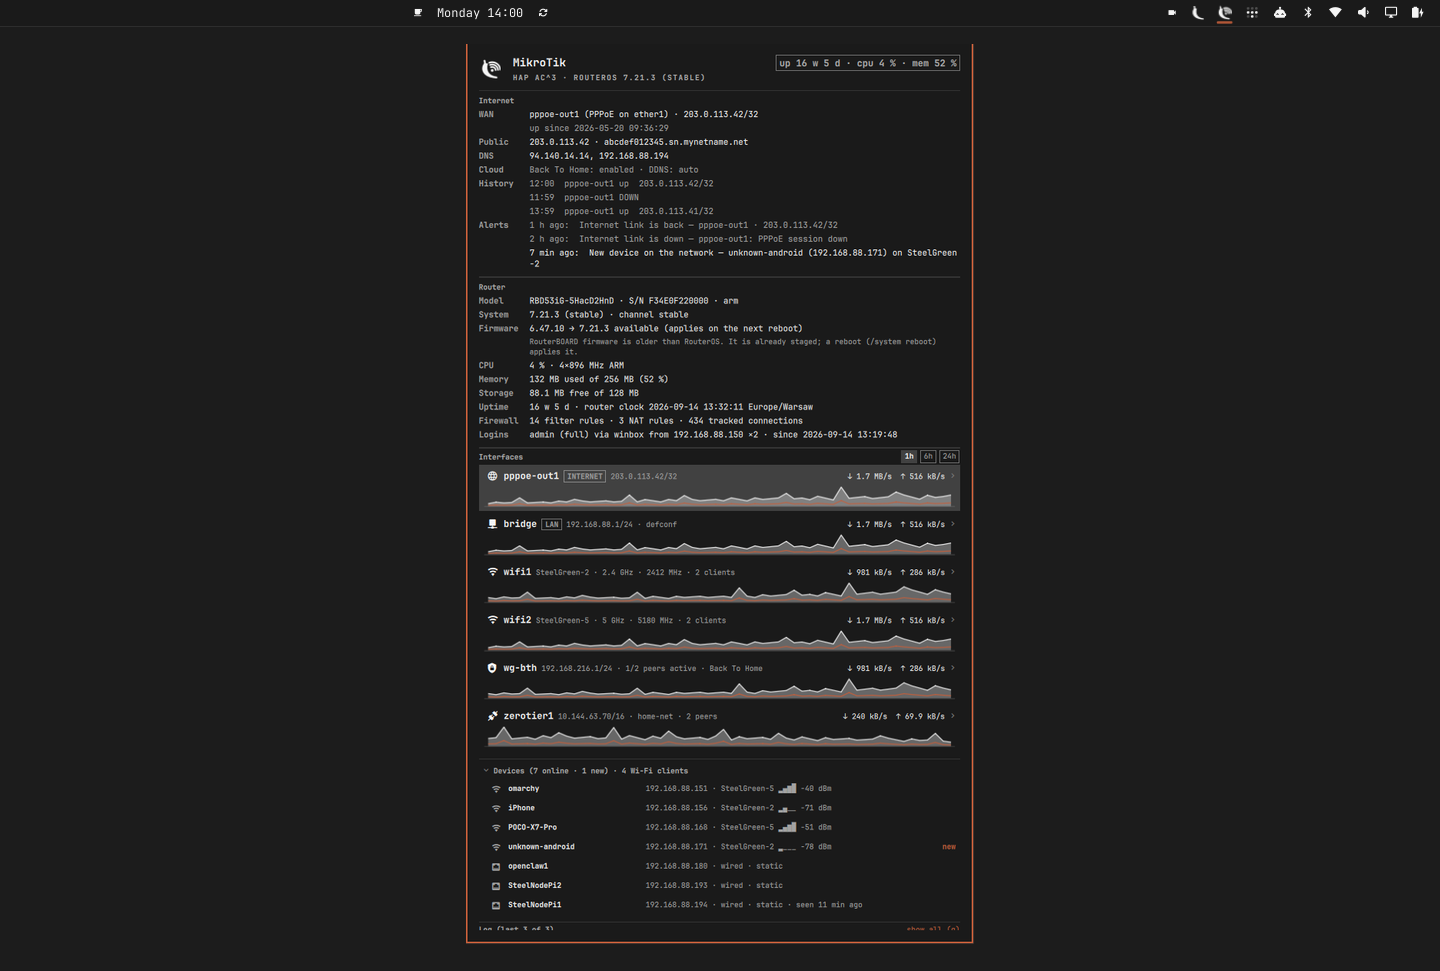
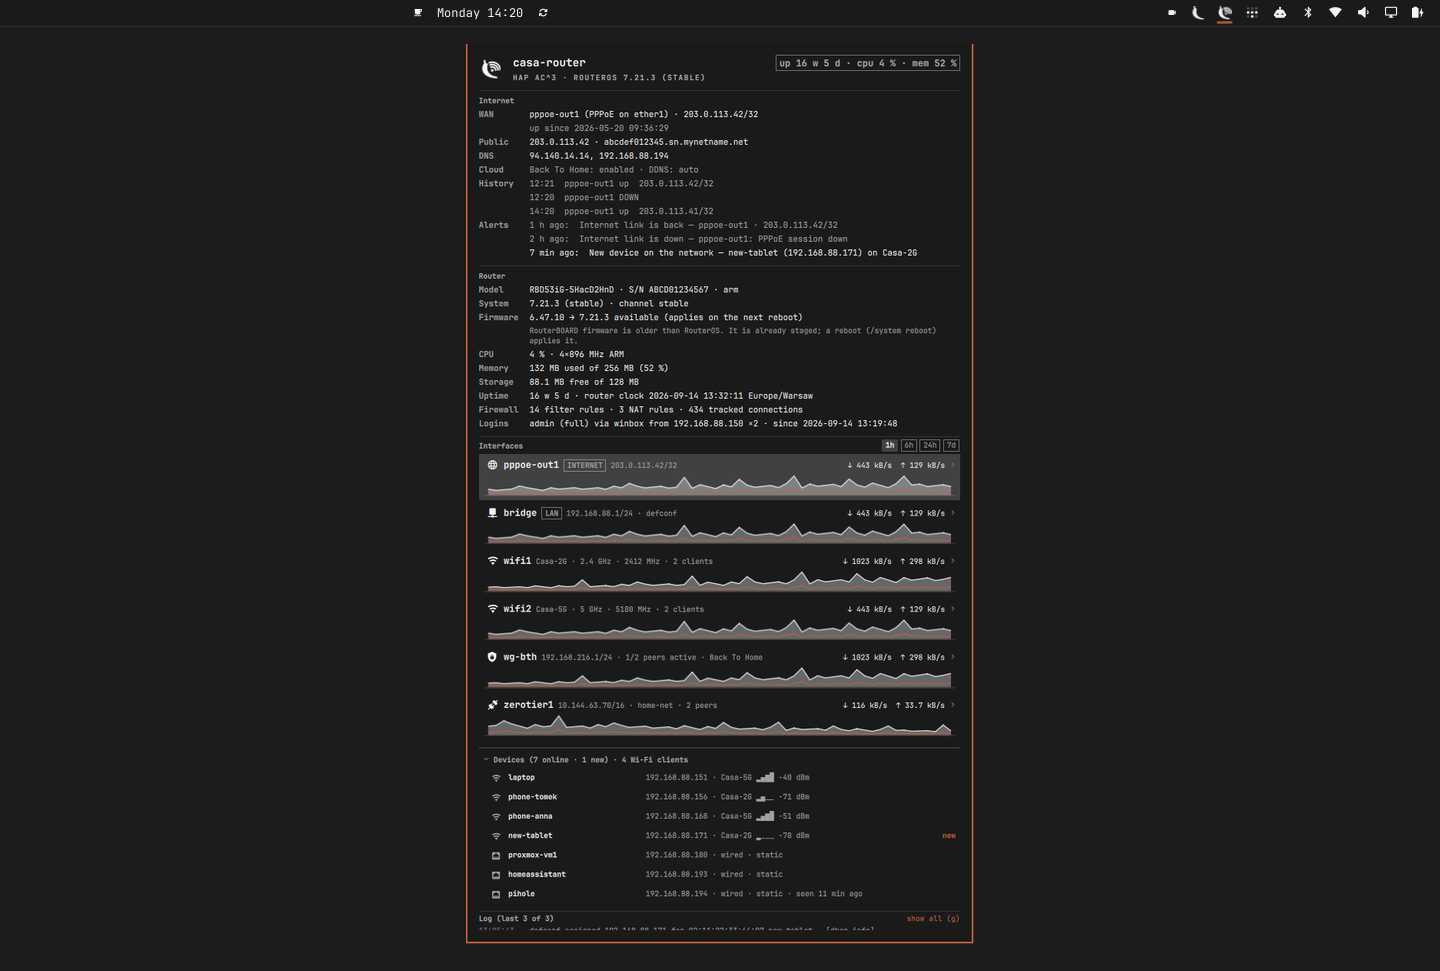
Demo data fully fictional (SSIDs, host names, MACs, identifiers); screenshots and preview regenerated
Claude-Session: https://claude.ai/code/session_01XDyaP7cXU6HmLgtFucitnF

diff --git a/collect.py b/collect.py
@@ -1091,54 +1091,54 @@ def update_state(now, wan, public_ip, clients, wifi_clients, sessions, router):
 
 def demo_output(now):
     interfaces = [
-        {"name": "ether1", "type": "ether", "kind": "ethernet", "running": True, "disabled": False, "slave": False, "comment": "ISP", "mac": "DC:2C:6E:00:00:01", "mtu": 1500,
+        {"name": "ether1", "type": "ether", "kind": "ethernet", "running": True, "disabled": False, "slave": False, "comment": "ISP", "mac": "02:1A:2B:00:00:01", "mtu": 1500,
          "rx": 562_790_417_378, "tx": 478_542_241_882, "rxPackets": 781_587_074, "txPackets": 759_252_966, "rxErrors": 0, "txErrors": 0, "rxDrops": 0, "txDrops": 0, "linkDowns": 0, "lastUp": "2026-05-20 09:36:28", "lastDown": "", "ips": []},
         {"name": "pppoe-out1", "type": "pppoe-out", "kind": "wan", "running": True, "disabled": False, "slave": False, "comment": "", "mac": "", "mtu": 1492,
          "rx": 540_791_727_430, "tx": 457_867_764_384, "rxPackets": 740_669_612, "txPackets": 756_067_671, "rxErrors": 0, "txErrors": 0, "rxDrops": 0, "txDrops": 0, "linkDowns": 0, "lastUp": "2026-05-20 09:36:29", "lastDown": "", "ips": ["203.0.113.42/32"]},
-        {"name": "bridge", "type": "bridge", "kind": "bridge", "running": True, "disabled": False, "slave": False, "comment": "defconf", "mac": "DC:2C:6E:00:00:02", "mtu": 1500,
+        {"name": "bridge", "type": "bridge", "kind": "bridge", "running": True, "disabled": False, "slave": False, "comment": "defconf", "mac": "02:1A:2B:00:00:02", "mtu": 1500,
          "rx": 454_384_628_074, "tx": 550_568_626_761, "rxPackets": 737_306_076, "txPackets": 734_572_793, "rxErrors": 0, "txErrors": 0, "rxDrops": 0, "txDrops": 0, "linkDowns": 0, "lastUp": "2026-05-20 09:36:22", "lastDown": "", "ips": ["192.168.88.1/24"]},
-        {"name": "ether3", "type": "ether", "kind": "ethernet", "running": True, "disabled": False, "slave": True, "comment": "", "mac": "DC:2C:6E:00:00:03", "mtu": 1500,
+        {"name": "ether3", "type": "ether", "kind": "ethernet", "running": True, "disabled": False, "slave": True, "comment": "", "mac": "02:1A:2B:00:00:03", "mtu": 1500,
          "rx": 515_531_133, "tx": 1_784_841_753, "rxPackets": 4_285_820, "txPackets": 14_517_348, "rxErrors": 0, "txErrors": 0, "rxDrops": 0, "txDrops": 0, "linkDowns": 0, "lastUp": "2026-05-20 09:36:24", "lastDown": "", "ips": []},
-        {"name": "wifi1", "type": "wifi", "kind": "wifi", "running": True, "disabled": False, "slave": True, "comment": "", "mac": "DC:2C:6E:00:00:0C", "mtu": 1500,
+        {"name": "wifi1", "type": "wifi", "kind": "wifi", "running": True, "disabled": False, "slave": True, "comment": "", "mac": "02:1A:2B:00:00:0C", "mtu": 1500,
          "rx": 2_002_016_880, "tx": 7_097_436_515, "rxPackets": 5_164_936, "txPackets": 7_229_560, "rxErrors": 0, "txErrors": 0, "rxDrops": 0, "txDrops": 0, "linkDowns": 37, "lastUp": "2026-09-14 09:51:25", "lastDown": "2026-09-11 13:37:55", "ips": []},
-        {"name": "wifi2", "type": "wifi", "kind": "wifi", "running": True, "disabled": False, "slave": True, "comment": "", "mac": "DC:2C:6E:00:00:0D", "mtu": 1500,
+        {"name": "wifi2", "type": "wifi", "kind": "wifi", "running": True, "disabled": False, "slave": True, "comment": "", "mac": "02:1A:2B:00:00:0D", "mtu": 1500,
          "rx": 421_165_239_754, "tx": 503_621_816_298, "rxPackets": 670_383_033, "txPackets": 675_550_139, "rxErrors": 0, "txErrors": 0, "rxDrops": 0, "txDrops": 0, "linkDowns": 48, "lastUp": "2026-09-14 09:50:29", "lastDown": "2026-09-11 13:42:29", "ips": []},
-        {"name": "zerotier1", "type": "zerotier", "kind": "zerotier", "running": True, "disabled": False, "slave": False, "comment": "", "mac": "3A:13:7B:00:00:4F", "mtu": 2800,
+        {"name": "zerotier1", "type": "zerotier", "kind": "zerotier", "running": True, "disabled": False, "slave": False, "comment": "", "mac": "02:3C:4D:00:00:4F", "mtu": 2800,
          "rx": 429_575_907, "tx": 2_736_014_553, "rxPackets": 3_112_169, "txPackets": 2_318_833, "rxErrors": 0, "txErrors": 0, "rxDrops": 0, "txDrops": 0, "linkDowns": 0, "lastUp": "2026-05-20 09:36:40", "lastDown": "", "ips": ["10.144.63.70/16"]},
         {"name": "wg-bth", "type": "wg", "kind": "wireguard", "running": True, "disabled": False, "slave": False, "comment": "Back To Home", "mac": "", "mtu": 1420,
          "rx": 92_575_907, "tx": 236_014_553, "rxPackets": 312_169, "txPackets": 218_833, "rxErrors": 0, "txErrors": 0, "rxDrops": 0, "txDrops": 0, "linkDowns": 0, "lastUp": "2026-09-01 08:00:00", "lastDown": "", "ips": ["192.168.216.1/24"]},
     ]
-    wan = {"present": True, "up": True, "iface": "pppoe-out1", "kind": "pppoe", "gateway": "pppoe-out1", "ip": "203.0.113.42/32", "sinceUp": "2026-05-20 09:36:29", "detail": "", "pppoeUser": "isp-user", "pppoeOn": "ether1", "acName": "BRAS-01", "linkDowns": 0}
+    wan = {"present": True, "up": True, "iface": "pppoe-out1", "kind": "pppoe", "gateway": "pppoe-out1", "ip": "203.0.113.42/32", "sinceUp": "2026-05-20 09:36:29", "detail": "", "pppoeUser": "pppoe-user", "pppoeOn": "ether1", "acName": "bras-01.example", "linkDowns": 0}
     clients = [
-        {"ip": "192.168.88.194", "mac": "B8:27:EB:A1:6C:C3", "host": "SteelNodePi1", "comment": "", "status": "bound", "dynamic": False, "static": True, "server": "defconf", "expires": 1094, "lastSeen": 706, "blocked": False, "wifi": False, "firstSeen": 0},
-        {"ip": "192.168.88.193", "mac": "B8:27:EB:6F:6C:C7", "host": "SteelNodePi2", "comment": "", "status": "bound", "dynamic": False, "static": True, "server": "defconf", "expires": 1000, "lastSeen": 60, "blocked": False, "wifi": False, "firstSeen": 0},
-        {"ip": "192.168.88.180", "mac": "BC:24:11:F2:09:49", "host": "openclaw1", "comment": "proxmox VM", "status": "bound", "dynamic": False, "static": True, "server": "defconf", "expires": 900, "lastSeen": 12, "blocked": False, "wifi": False, "firstSeen": 0},
-        {"ip": "192.168.88.151", "mac": "2C:98:11:7B:2B:83", "host": "omarchy", "comment": "", "status": "bound", "dynamic": True, "static": False, "server": "defconf", "expires": 1500, "lastSeen": 3, "blocked": False, "wifi": True, "firstSeen": 0},
-        {"ip": "192.168.88.168", "mac": "7E:64:8F:2C:4F:53", "host": "POCO-X7-Pro", "comment": "", "status": "bound", "dynamic": True, "static": False, "server": "defconf", "expires": 1700, "lastSeen": 15, "blocked": False, "wifi": True, "firstSeen": 0},
-        {"ip": "192.168.88.156", "mac": "26:04:88:2C:C9:4D", "host": "iPhone", "comment": "", "status": "bound", "dynamic": True, "static": False, "server": "defconf", "expires": 1600, "lastSeen": 3, "blocked": False, "wifi": True, "firstSeen": 0},
-        {"ip": "192.168.88.171", "mac": "F0:9E:4A:11:22:33", "host": "unknown-android", "comment": "", "status": "bound", "dynamic": True, "static": False, "server": "defconf", "expires": 1790, "lastSeen": 1, "blocked": False, "wifi": True, "firstSeen": now - 420},
+        {"ip": "192.168.88.194", "mac": "02:11:22:33:44:01", "host": "pihole", "comment": "", "status": "bound", "dynamic": False, "static": True, "server": "defconf", "expires": 1094, "lastSeen": 706, "blocked": False, "wifi": False, "firstSeen": 0},
+        {"ip": "192.168.88.193", "mac": "02:11:22:33:44:02", "host": "homeassistant", "comment": "", "status": "bound", "dynamic": False, "static": True, "server": "defconf", "expires": 1000, "lastSeen": 60, "blocked": False, "wifi": False, "firstSeen": 0},
+        {"ip": "192.168.88.180", "mac": "02:11:22:33:44:03", "host": "proxmox-vm1", "comment": "proxmox VM", "status": "bound", "dynamic": False, "static": True, "server": "defconf", "expires": 900, "lastSeen": 12, "blocked": False, "wifi": False, "firstSeen": 0},
+        {"ip": "192.168.88.151", "mac": "02:11:22:33:44:04", "host": "laptop", "comment": "", "status": "bound", "dynamic": True, "static": False, "server": "defconf", "expires": 1500, "lastSeen": 3, "blocked": False, "wifi": True, "firstSeen": 0},
+        {"ip": "192.168.88.168", "mac": "02:11:22:33:44:05", "host": "phone-anna", "comment": "", "status": "bound", "dynamic": True, "static": False, "server": "defconf", "expires": 1700, "lastSeen": 15, "blocked": False, "wifi": True, "firstSeen": 0},
+        {"ip": "192.168.88.156", "mac": "02:11:22:33:44:06", "host": "phone-tomek", "comment": "", "status": "bound", "dynamic": True, "static": False, "server": "defconf", "expires": 1600, "lastSeen": 3, "blocked": False, "wifi": True, "firstSeen": 0},
+        {"ip": "192.168.88.171", "mac": "02:11:22:33:44:07", "host": "new-tablet", "comment": "", "status": "bound", "dynamic": True, "static": False, "server": "defconf", "expires": 1790, "lastSeen": 1, "blocked": False, "wifi": True, "firstSeen": now - 420},
     ]
     wifi_clients = [
-        {"mac": "2C:98:11:7B:2B:83", "iface": "wifi2", "ssid": "SteelGreen-5", "band": "5ghz-ac", "signal": -40, "uptime": 10378, "lastActivity": 0, "rxRate": 866000000, "txRate": 866000000, "rxBps": 2746, "txBps": 18408, "rxBytes": 857205992, "txBytes": 674992607, "auth": "wpa2-psk", "host": "omarchy", "ip": "192.168.88.151"},
-        {"mac": "7E:64:8F:2C:4F:53", "iface": "wifi2", "ssid": "SteelGreen-5", "band": "5ghz-ac", "signal": -51, "uptime": 11453, "lastActivity": 15, "rxRate": 866000000, "txRate": 780000000, "rxBps": 120, "txBps": 400, "rxBytes": 12345678, "txBytes": 87654321, "auth": "wpa2-psk", "host": "POCO-X7-Pro", "ip": "192.168.88.168"},
-        {"mac": "26:04:88:2C:C9:4D", "iface": "wifi1", "ssid": "SteelGreen-2", "band": "2ghz-n", "signal": -71, "uptime": 11397, "lastActivity": 3, "rxRate": 72200000, "txRate": 65000000, "rxBps": 0, "txBps": 0, "rxBytes": 2345678, "txBytes": 7654321, "auth": "wpa2-psk", "host": "iPhone", "ip": "192.168.88.156"},
-        {"mac": "F0:9E:4A:11:22:33", "iface": "wifi1", "ssid": "SteelGreen-2", "band": "2ghz-n", "signal": -78, "uptime": 420, "lastActivity": 1, "rxRate": 65000000, "txRate": 58500000, "rxBps": 900, "txBps": 300, "rxBytes": 45678, "txBytes": 54321, "auth": "wpa2-psk", "host": "unknown-android", "ip": "192.168.88.171"},
+        {"mac": "02:11:22:33:44:04", "iface": "wifi2", "ssid": "Casa-5G", "band": "5ghz-ac", "signal": -40, "uptime": 10378, "lastActivity": 0, "rxRate": 866000000, "txRate": 866000000, "rxBps": 2746, "txBps": 18408, "rxBytes": 857205992, "txBytes": 674992607, "auth": "wpa2-psk", "host": "laptop", "ip": "192.168.88.151"},
+        {"mac": "02:11:22:33:44:05", "iface": "wifi2", "ssid": "Casa-5G", "band": "5ghz-ac", "signal": -51, "uptime": 11453, "lastActivity": 15, "rxRate": 866000000, "txRate": 780000000, "rxBps": 120, "txBps": 400, "rxBytes": 12345678, "txBytes": 87654321, "auth": "wpa2-psk", "host": "phone-anna", "ip": "192.168.88.168"},
+        {"mac": "02:11:22:33:44:06", "iface": "wifi1", "ssid": "Casa-2G", "band": "2ghz-n", "signal": -71, "uptime": 11397, "lastActivity": 3, "rxRate": 72200000, "txRate": 65000000, "rxBps": 0, "txBps": 0, "rxBytes": 2345678, "txBytes": 7654321, "auth": "wpa2-psk", "host": "phone-tomek", "ip": "192.168.88.156"},
+        {"mac": "02:11:22:33:44:07", "iface": "wifi1", "ssid": "Casa-2G", "band": "2ghz-n", "signal": -78, "uptime": 420, "lastActivity": 1, "rxRate": 65000000, "txRate": 58500000, "rxBps": 900, "txBps": 300, "rxBytes": 45678, "txBytes": 54321, "auth": "wpa2-psk", "host": "new-tablet", "ip": "192.168.88.171"},
     ]
     return {
         "ts": now, "tookMs": 63, "demo": True, "version": VERSION,
-        "router": {"identity": "MikroTik", "board": "hAP ac^3", "model": "RBD53iG-5HacD2HnD", "version": "7.21.3 (stable)", "channel": "stable", "firmware": "6.47.10", "firmwareUpgrade": "7.21.3",
+        "router": {"identity": "casa-router", "board": "hAP ac^3", "model": "RBD53iG-5HacD2HnD", "version": "7.21.3 (stable)", "channel": "stable", "firmware": "6.47.10", "firmwareUpgrade": "7.21.3",
                    "firmwarePending": True, "uptimeS": 10_150_000, "cpu": "ARM", "cpuCount": 4, "cpuFreq": 896, "cpuLoad": 4, "memFree": 130_076_672, "memTotal": 268_435_456,
-                   "hddFree": 92_352_512, "hddTotal": 134_217_728, "badBlocks": 0, "serial": "F34E0F220000", "arch": "arm", "time": "13:32:11", "date": "2026-09-14", "tz": "Europe/Warsaw"},
+                   "hddFree": 92_352_512, "hddTotal": 134_217_728, "badBlocks": 0, "serial": "ABCD01234567", "arch": "arm", "time": "13:32:11", "date": "2026-09-14", "tz": "Europe/Warsaw"},
         "wan": wan, "cloud": {"publicIp": "203.0.113.42", "bth": "enabled", "ddns": "auto", "ddnsName": "abcdef012345.sn.mynetname.net"},
         "dns": ["94.140.14.14", "192.168.88.194"],
         "interfaces": interfaces,
         "wifi": {"radios": [
-            {"name": "wifi1", "ssid": "SteelGreen-2", "mode": "ap", "freq": 2412, "width": "20mhz", "master": True, "masterOf": "", "running": True, "disabled": False, "clients": 2},
-            {"name": "wifi2", "ssid": "SteelGreen-5", "mode": "ap", "freq": 5180, "width": "20/40/80mhz", "master": True, "masterOf": "", "running": True, "disabled": False, "clients": 2},
-            {"name": "wifi3", "ssid": "SteelGreen-IoT", "mode": "ap", "freq": 0, "width": "", "master": False, "masterOf": "wifi1", "running": False, "disabled": False, "clients": 0},
+            {"name": "wifi1", "ssid": "Casa-2G", "mode": "ap", "freq": 2412, "width": "20mhz", "master": True, "masterOf": "", "running": True, "disabled": False, "clients": 2},
+            {"name": "wifi2", "ssid": "Casa-5G", "mode": "ap", "freq": 5180, "width": "20/40/80mhz", "master": True, "masterOf": "", "running": True, "disabled": False, "clients": 2},
+            {"name": "wifi3", "ssid": "Casa-IoT", "mode": "ap", "freq": 0, "width": "", "master": False, "masterOf": "wifi1", "running": False, "disabled": False, "clients": 0},
         ], "clients": wifi_clients},
         "clients": clients, "clientsBound": 7,
-        "zerotier": {"instances": [{"name": "zt1", "online": True, "state": "running", "address": "ad67080a2a", "port": 9993, "disabled": False}],
+        "zerotier": {"instances": [{"name": "zt1", "online": True, "state": "running", "address": "9f3a1c2b7d", "port": 9993, "disabled": False}],
                      "networks": [{"iface": "zerotier1", "network": "6ab565387a1cbe3b", "name": "home-net", "status": "OK", "type": "PRIVATE", "running": True, "instance": "zt1", "allowDefault": False, "allowManaged": True}],
                      "peers": [{"address": "1a2b3c4d5e", "role": "LEAF", "latencyMs": 5, "endpoint": "198.51.100.7/52268", "paths": 2, "bonded": False},
                                {"address": "5e4d3c2b1a", "role": "LEAF", "latencyMs": 9, "endpoint": "203.0.113.9/9164", "paths": 2, "bonded": False},
@@ -1149,10 +1149,10 @@ def demo_output(now):
                                 {"iface": "wg-bth", "name": "laptop-away", "endpoint": "", "allowed": "192.168.216.3/32", "lastHandshake": 86_400 * 3, "rx": 0, "tx": 0, "disabled": False, "responder": True, "isBth": True}]},
         "sessions": [{"user": "admin", "group": "full", "via": "winbox", "address": "192.168.88.150", "when": "2026-09-14 13:19:48", "count": 2}],
         "firewall": {"filter": 14, "nat": 3, "connections": 434},
-        "log": [{"time": "2026-09-14 13:05:43", "topics": "dhcp,info", "message": "defconf assigned 192.168.88.171 for F0:9E:4A:11:22:33 unknown-android", "level": "info"},
-                {"time": "2026-09-14 13:07:51", "topics": "wireless,info", "message": "F0:9E:4A:11:22:33@wifi1(SteelGreen-2) connected, signal strength -78", "level": "info"},
+        "log": [{"time": "2026-09-14 13:05:43", "topics": "dhcp,info", "message": "defconf assigned 192.168.88.171 for 02:11:22:33:44:07 new-tablet", "level": "info"},
+                {"time": "2026-09-14 13:07:51", "topics": "wireless,info", "message": "02:11:22:33:44:07@wifi1(Casa-2G) connected, signal strength -78", "level": "info"},
                 {"time": "2026-09-14 12:50:02", "topics": "system,error,critical", "message": "login failure for user admin from 203.0.113.99 via winbox", "level": "error"}],
-        "alerts": [{"id": "client:1", "kind": "client", "at": now - 420, "urgent": False, "title": "New device on the network", "body": "unknown-android (192.168.88.171) on SteelGreen-2", "macs": ["F0:9E:4A:11:22:33"]},
+        "alerts": [{"id": "client:1", "kind": "client", "at": now - 420, "urgent": False, "title": "New device on the network", "body": "new-tablet (192.168.88.171) on Casa-2G", "macs": ["02:11:22:33:44:07"]},
                    {"id": "wan:1", "kind": "wan", "at": now - 7200, "urgent": True, "title": "Internet link is down", "body": "pppoe-out1: PPPoE session down"},
                    {"id": "wan:2", "kind": "wan", "at": now - 7140, "urgent": False, "title": "Internet link is back", "body": "pppoe-out1 · 203.0.113.42/32"}],
         "wanLog": [{"at": now - 86400 * 3, "iface": "pppoe-out1", "state": "up", "ip": "203.0.113.41/32", "kind": "pppoe"}, {"at": now - 7200, "iface": "pppoe-out1", "state": "down", "ip": "", "kind": "pppoe"}, {"at": now - 7140, "iface": "pppoe-out1", "state": "up", "ip": "203.0.113.42/32", "kind": "pppoe"}],
